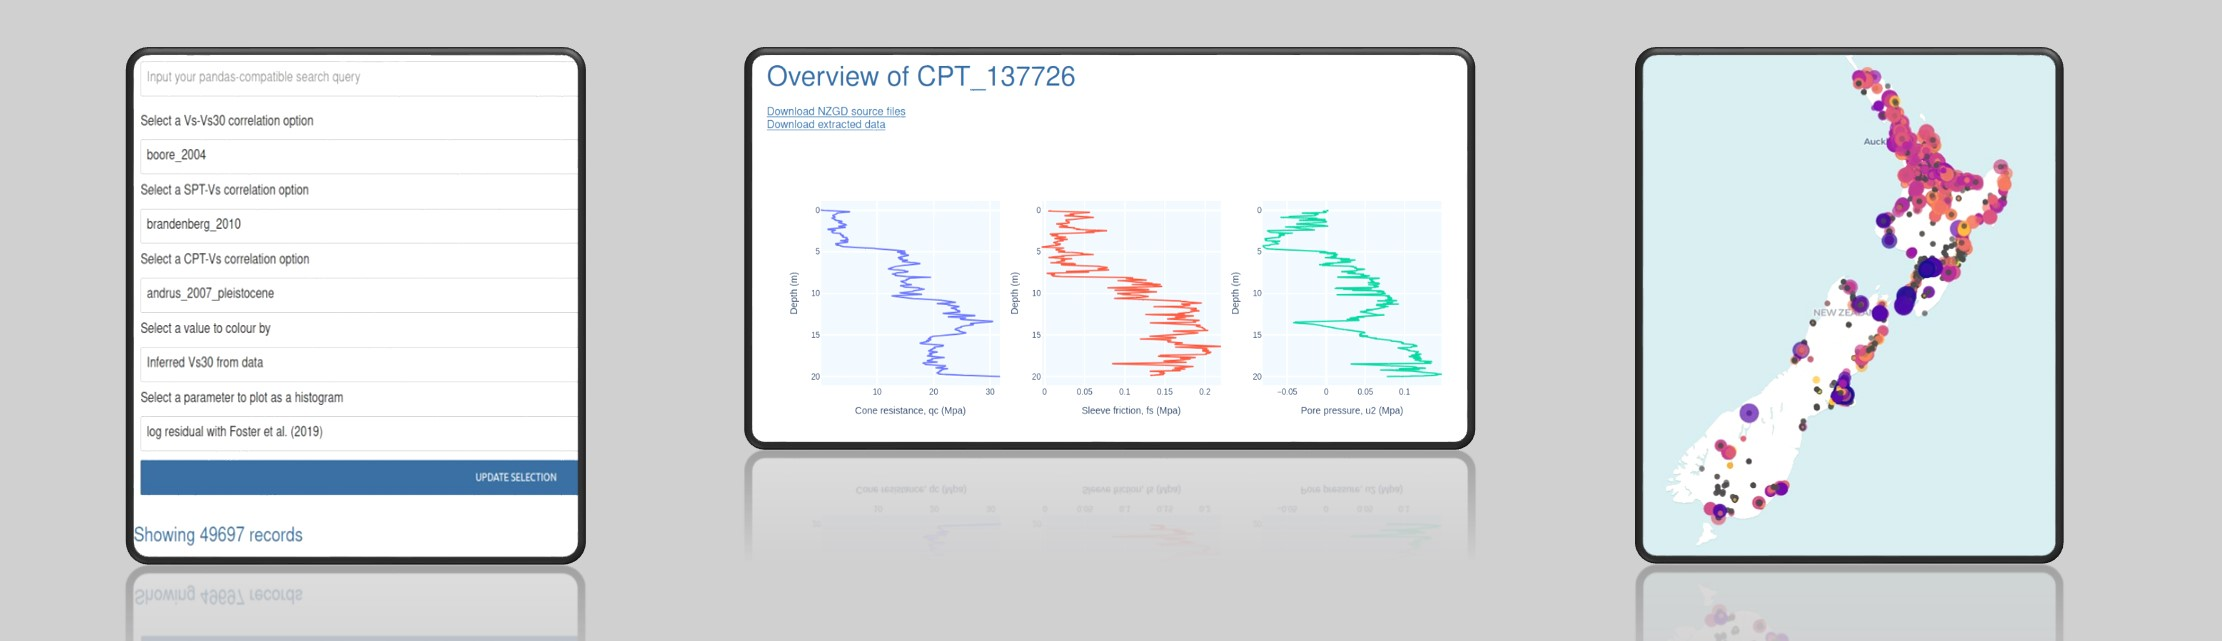
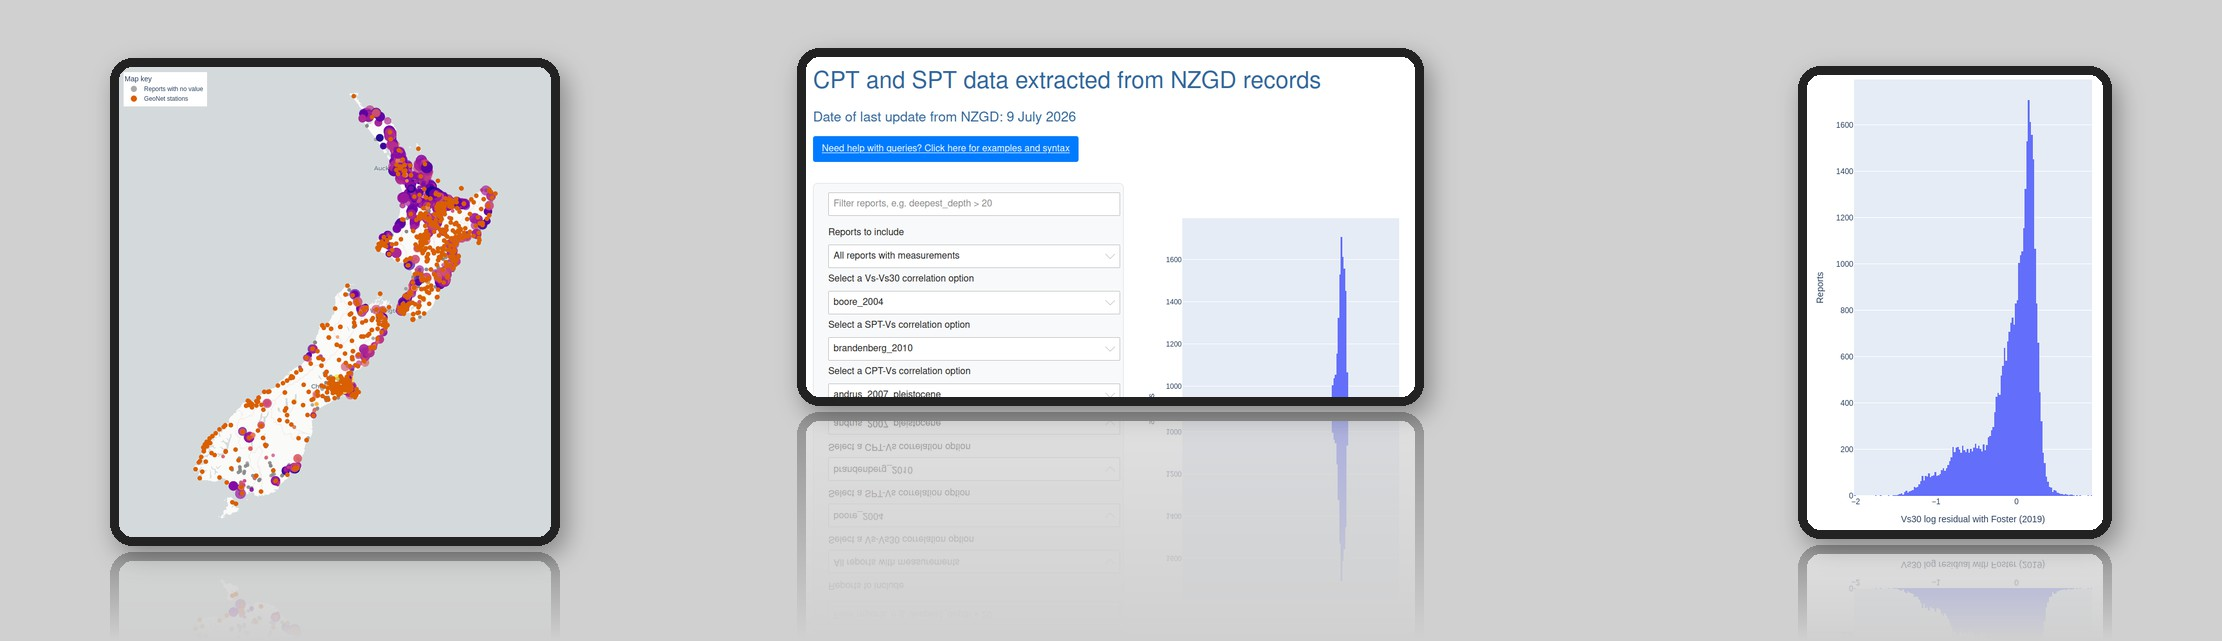
add smdb

diff --git a/landing_page/src/App.js b/landing_page/src/App.js
@@ -185,7 +185,7 @@ function App() {
               <img
                 className="d-block w-100"
                 src="app_9_banner.jpg"
-                alt="Docs"
+                alt="NZGMDB"
               />
 
               <Carousel.Caption>
@@ -199,6 +199,28 @@ function App() {
                 <p className="dark carousel-p">
                   New Zealand Ground Motion Database (NZGMDB) for accessing and
                   downloading strong motion records from New Zealand earthquakes.
+                </p>
+              </Carousel.Caption>
+            </Carousel.Item>
+            <Carousel.Item>
+              <img
+                className="d-block w-100"
+                src="app_10_banner.jpg"
+                alt="NZSDB"
+              />
+
+              <Carousel.Caption>
+                <a
+                  className="btn btn-lg btn-primary mb-3 btn-size"
+                  href="https://quakecoresoft.canterbury.ac.nz/simulation_db"
+                  role="button"
+                >
+                  Launch NZSDB
+                </a>
+                <p className="dark carousel-p">
+                  New Zealand Simulation Database (NZSDB) for exploring and
+                  downloading simulated ground motions for past and future New
+                  Zealand earthquakes.
                 </p>
               </Carousel.Caption>
             </Carousel.Item>
@@ -378,6 +400,27 @@ function App() {
                 <p className="card-p">
                   New Zealand Ground Motion Database (NZGMDB) for accessing and
                   downloading strong motion records from New Zealand earthquakes.
+                </p>
+              </div>
+            </div>
+            <div className="card mb-3 d-sm-block mx-2">
+              <img
+                src="app_10_banner.jpg"
+                alt="NZSDB"
+                className="card-img-top"
+              />
+              <div className="card-body centre-text">
+                <a
+                  className="btn btn-lg btn-primary mb-3 btn-size"
+                  href="https://quakecoresoft.canterbury.ac.nz/simulation_db"
+                  role="button"
+                >
+                  Launch NZSDB
+                </a>
+                <p className="card-p">
+                  New Zealand Simulation Database (NZSDB) for exploring and
+                  downloading simulated ground motions for past and future New
+                  Zealand earthquakes.
                 </p>
               </div>
             </div>
